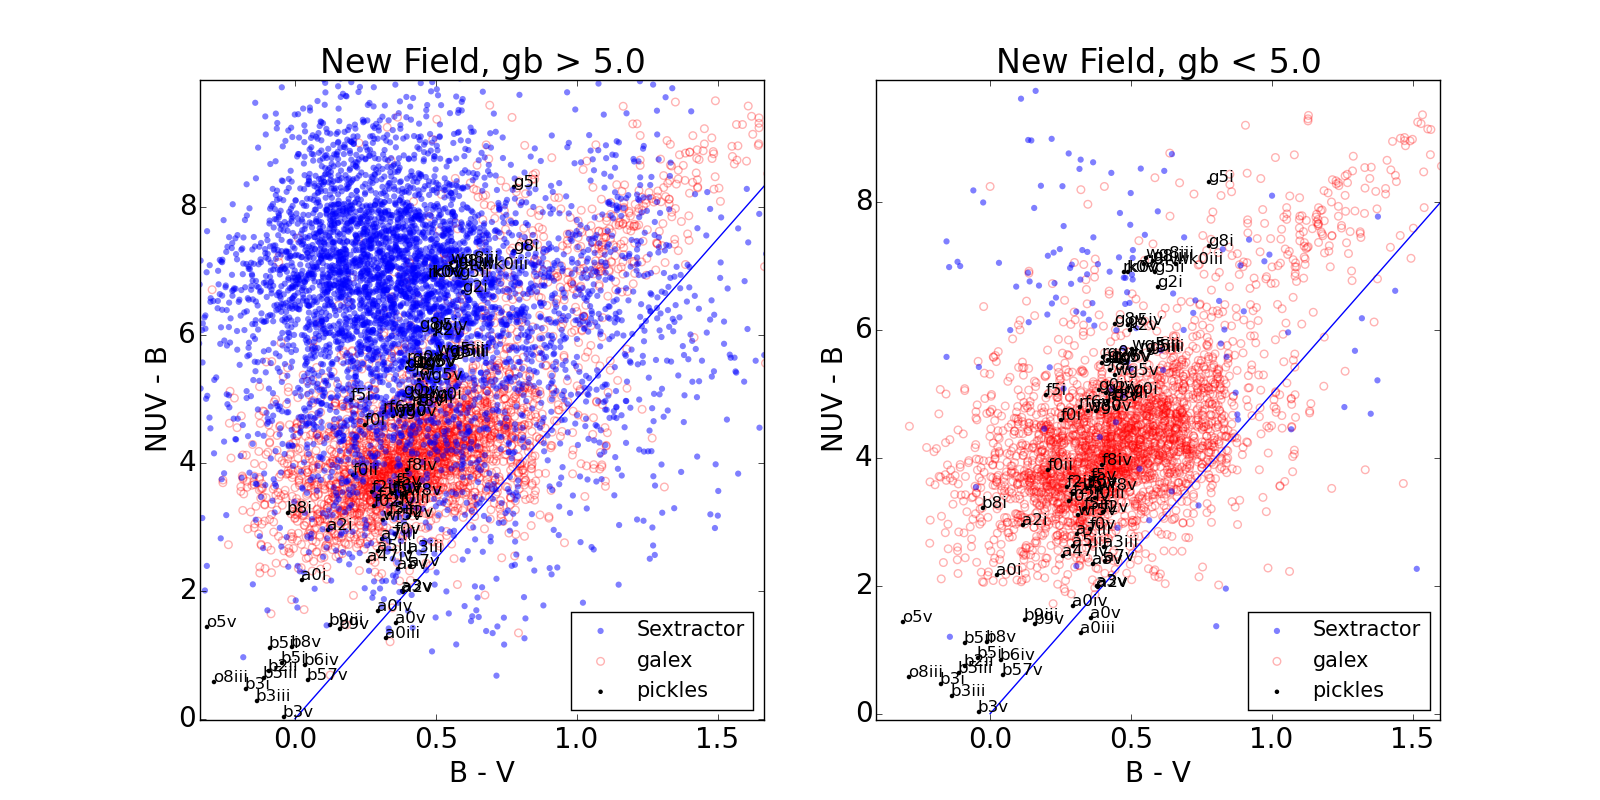
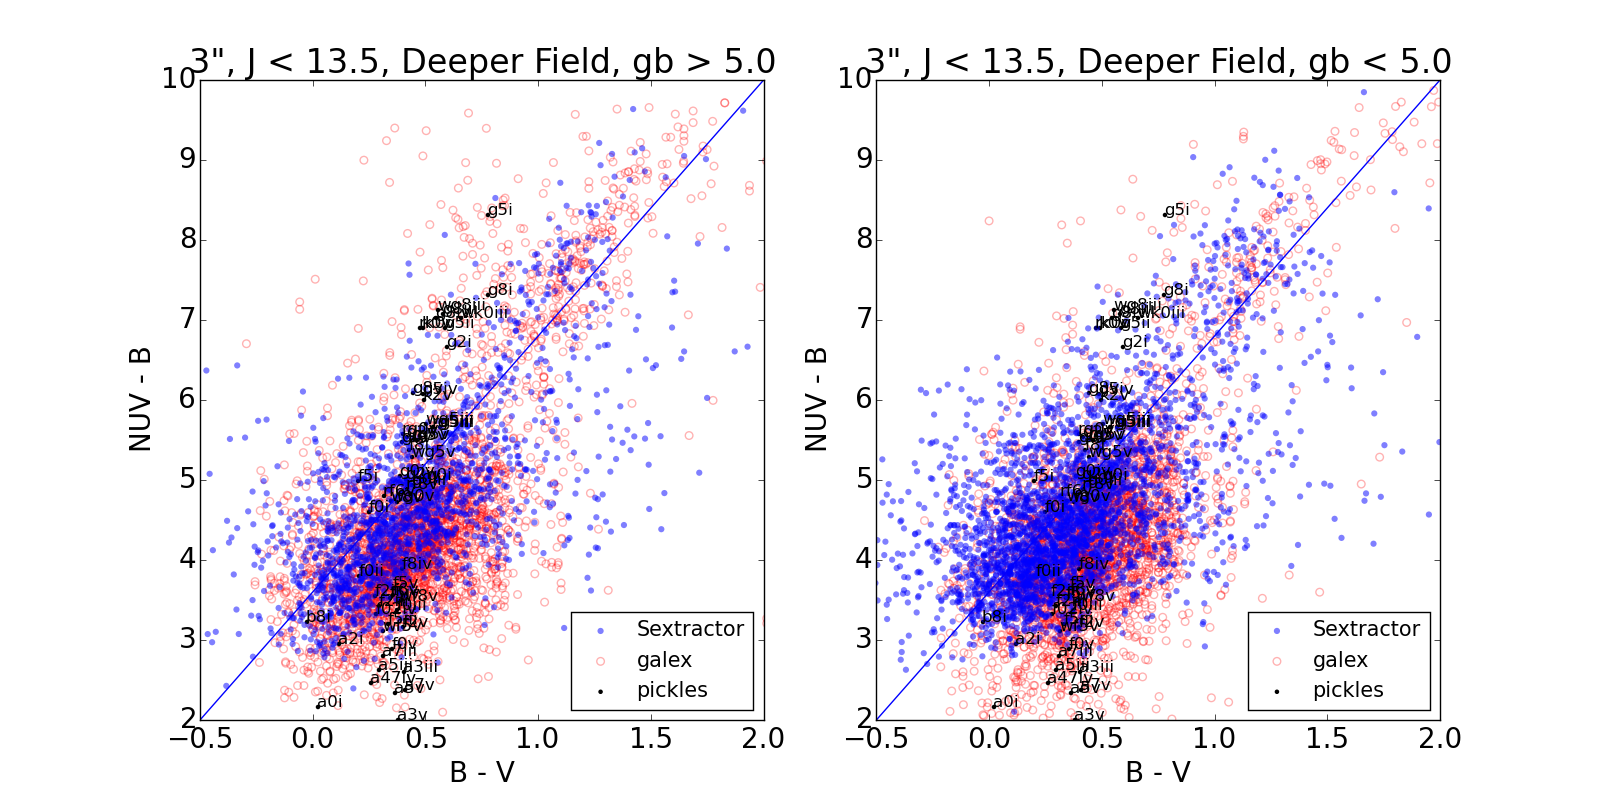
Added T2 Data to set

diff --git a/pipeline/misc.py b/pipeline/misc.py
@@ -29,33 +29,33 @@ ncut2 = np.where(np.abs(newt['gb']) < gbrange)
 f, (ax1, ax2) = plt.subplots(1, 2)
 plt.rc('legend',**{'fontsize':15})
 
-ax1.set_title('New Field, gb > '+str(gbrange))
-ax1.set_xlim((0,2))
-ax1.set_ylim((0,10))
+ax1.set_title('3", J < 13.5, Deeper Field, gb > '+str(gbrange))
+ax1.set_xlim((-0.5,2))
+ax1.set_ylim((2,10))
 ax1.set_xlabel('B - V')
 ax1.set_ylabel('NUV - B')
-ax1.plot([0,2],[0,10])
+ax1.plot([-0.5,2],[2,10])
 a2 = ax1.scatter(newt['BJmag'][ncut]-newt['VJmag'][ncut],newt['nuv_mag'][ncut]-newt['BJmag'][ncut],facecolor='none',edgecolor='red',s=30,alpha=0.3)
 a3 = ax1.scatter(pickles['b']-pickles['v'],pickles['nuv']-pickles['b'],c='black',s=5)
 for j in range(len(pickles)):
     ax1.annotate(pickles['name'][j][:-4],xy=(pickles['b'][j]-pickles['v'][j],pickles['nuv'][j]-pickles['b'][j]),size=12)
 
 a1 = ax1.scatter(star['BJmag'][scut]-star['VJmag'][scut],star['nuv'][scut]-star['BJmag'][scut],edgecolor='none',alpha=0.5)
-ax1.legend([a1,a2,a3],['Sextractor','galex','pickles'],scatterpoints=1,loc=2)
+ax1.legend([a1,a2,a3],['Sextractor','galex','pickles'],scatterpoints=1,loc=4)
 
-ax2.set_title('New Field, gb < '+str(gbrange))
-ax2.set_xlim((0,2))
-ax2.set_ylim((0,10))
+ax2.set_title('3", J < 13.5, Deeper Field, gb < '+str(gbrange))
+ax2.set_xlim((-0.5,2))
+ax2.set_ylim((2,10))
 ax2.set_xlabel('B - V')
 ax2.set_ylabel('NUV - B')
-ax2.plot([0,2],[0,10])
+ax2.plot([-0.5,2],[2,10])
 b2 = ax2.scatter(newt['BJmag'][ncut2]-newt['VJmag'][ncut2],newt['nuv_mag'][ncut2]-newt['BJmag'][ncut2],facecolor='none',edgecolor='red',s=30,alpha=0.3)
 b3 = ax2.scatter(pickles['b']-pickles['v'],pickles['nuv']-pickles['b'],c='black',s=5)
 for j in range(len(pickles)):
     ax2.annotate(pickles['name'][j][:-4],xy=(pickles['b'][j]-pickles['v'][j],pickles['nuv'][j]-pickles['b'][j]),size=12)
 
 b1 = ax2.scatter(star['BJmag'][scut2]-star['VJmag'][scut2],star['nuv'][scut2]-star['BJmag'][scut2],edgecolor='none',alpha=0.5)
-ax2.legend([b1,b2,b3],['Sextractor','galex','pickles'],scatterpoints=1,loc=2)
+ax2.legend([b1,b2,b3],['Sextractor','galex','pickles'],scatterpoints=1,loc=4)
 plt.show()
 
     
@@ -107,6 +107,57 @@ for j in range(len(pickles)):
 b1 = ax2.scatter(star['j'][scut2]-star['k'][scut2],star['nuv'][scut2]-star['j'][scut2],edgecolor='none',alpha=0.3)
 ax2.legend([b1,b2,b3],['Sextractor','Galex','pickles'],scatterpoints=1,loc=2)
 plt.show()
+
+####################################################################
+# J-H vs H-K
+####################################################################
+star = Table.read('starcatalog_05-68_2mass_t2.txt', format='ascii')
+
+newt = Table.read('galex120_2mass_t2.txt', format='ascii')
+pickles = Table.read('picklemags.txt', format='ascii')
+
+gbrange = 5.
+scut = np.where((np.abs(star['gb_sex']) > gbrange))
+scut2 = np.where((np.abs(star['gb_sex']) < gbrange))
+ncut = np.where(np.abs(newt['gb']) > gbrange)
+ncut2 = np.where(np.abs(newt['gb']) < gbrange)
+
+f, (ax1, ax2) = plt.subplots(1, 2)
+plt.rc('legend',**{'fontsize':15})
+
+ax1.set_title('3", J < 13.5, Deeper Field, gb > '+str(gbrange))
+ax1.set_xlim((-0.4,0.6))
+ax1.set_ylim((-0.3,1.0))
+ax1.set_xlabel('H - K')
+ax1.set_ylabel('J - H')
+ax1.plot([-0.4,0.6],[-0.3,1.0])
+a2 = ax1.scatter(newt['h'][ncut]-newt['k'][ncut],newt['j'][ncut]-newt['h'][ncut],facecolor='none',edgecolor='red',s=30,alpha=0.3)
+a3 = ax1.scatter(pickles['h']-pickles['k'],pickles['j']-pickles['h'],c='black',s=5)
+for j in range(len(pickles)):
+    ax1.annotate(pickles['name'][j][:-4],xy=(pickles['h'][j]-pickles['k'][j],pickles['j'][j]-pickles['h'][j]),size=12)
+
+a1 = ax1.scatter(star['h'][scut]-star['k'][scut],star['j'][scut]-star['h'][scut],edgecolor='none',alpha=0.1)
+
+
+ax1.legend([a1,a2,a3],['Sextractor','Galex','pickles'],scatterpoints=1,loc=2)
+
+
+ax2.set_title('3", J < 13.5, Deeper Field, gb < '+str(gbrange))
+ax2.set_xlim((-0.4,0.6))
+ax2.set_ylim((-0.3,1.0))
+ax2.set_xlabel('H - K')
+ax2.set_ylabel('J - H')
+ax2.plot([-0.4,0.6],[-0.3,1.0])
+b2 = ax2.scatter(newt['h'][ncut2]-newt['k'][ncut2],newt['j'][ncut2]-newt['h'][ncut2],facecolor='none',edgecolor='red',s=30,alpha=0.3)
+b3 = ax2.scatter(pickles['h']-pickles['k'],pickles['j']-pickles['h'],c='black',s=5)
+for j in range(len(pickles)):
+    ax2.annotate(pickles['name'][j][:-4],xy=(pickles['h'][j]-pickles['k'][j],pickles['j'][j]-pickles['h'][j]),size=12)
+
+b1 = ax2.scatter(star['h'][scut2]-star['k'][scut2],star['j'][scut2]-star['h'][scut2],edgecolor='none',alpha=0.1)
+ax2.legend([b1,b2,b3],['Sextractor','Galex','pickles'],scatterpoints=1,loc=2)
+plt.show()
+
+
 
 
 ####################################################################
@@ -204,17 +255,17 @@ b313 = Table.read('newfield_ipac_2mass_matches_3arcsec_J_lt13.txt',format='ascii
 b3135 = Table.read('newfield_ipac_2mass_matches_3arcsec_J_lt13.5.txt',format='ascii')
 b314 = Table.read('newfield_ipac_2mass_matches_3arcsec_J_lt14.txt',format='ascii')
 b3145 = Table.read('newfield_ipac_2mass_matches_3arcsec_J_lt14.5.txt',format='ascii')
-#c4125 = Table.read('newfield_ipac_2mass_matches_4arcsec_J_lt12.5.txt',format='ascii')
-#c413 = Table.read('newfield_ipac_2mass_matches_4arcsec_J_lt13.txt',format='ascii')
-#c4135 = Table.read('newfield_ipac_2mass_matches_4arcsec_J_lt13.5.txt',format='ascii')
-#c414 = Table.read('newfield_ipac_2mass_matches_4arcsec_J_lt14.txt',format='ascii')
-#c4145 = Table.read('newfield_ipac_2mass_matches_4arcsec_J_lt14.5.txt',format='ascii')
+c4125 = Table.read('newfield_ipac_2mass_matches_4arcsec_J_lt12.5.txt',format='ascii')
+c413 = Table.read('newfield_ipac_2mass_matches_4arcsec_J_lt13.txt',format='ascii')
+c4135 = Table.read('newfield_ipac_2mass_matches_4arcsec_J_lt13.5.txt',format='ascii')
+c414 = Table.read('newfield_ipac_2mass_matches_4arcsec_J_lt14.txt',format='ascii')
+c4145 = Table.read('newfield_ipac_2mass_matches_4arcsec_J_lt14.5.txt',format='ascii')
 
 
-# Plot radius search vs J mag search limits 
-files = [a2125,a213,a2135,a214,a2145,b3125,b313,b3135,b314,b3145]#,c4125,c413,c4135,c414,c4145]
-jlim = [12.5,13,13.5,14,14.5,12.5,13,13.5,14,14.5]#,12.5,13,13.5,14,14.5]
-arcsec = [2,2,2,2,2,3,3,3,3,3]#,4,4,4,4,4]
+#Plot radius search vs J mag search limits 
+files = [a2125,a213,a2135,a214,a2145,b3125,b313,b3135,b314,b3145,c4125,c413,c4135,c414,c4145]
+jlim = [12.5,13,13.5,14,14.5,12.5,13,13.5,14,14.5,12.5,13,13.5,14,14.5]
+arcsec = [2,2,2,2,2,3,3,3,3,3,4,4,4,4,4]
 dx = []
 for i in files:
     dx.append(np.median(i['dist_x']))
@@ -228,12 +279,13 @@ for i in range(len(files)):
     plt.annotate(str(len(files[i])),xy=(jlim[i]+0.05,dx[i]))
 plt.show()
 
+
 # Field density plot vs J mag search limits
 field = (6*5.5)*3*3600./2
 denlo,denhi = [],[]
 for i in files:
-    denlo.append(len(i[np.where(i['gb_sex'] < 5.)])/field)
-    denhi.append(len(i[np.where(i['gb_sex'] > 5.)])/field)
+    denlo.append(len(i[np.where(np.abs(i['gb_sex']) < 5.)])/field)
+    denhi.append(len(i[np.where(np.abs(i['gb_sex']) > 5.)])/field)
 
 plt.scatter(jlim,denlo,c=arcsec,edgecolor='none',s=80,marker='s',label='b < 5')
 plt.scatter(jlim,denhi,c=arcsec,edgecolor='none',s=80,marker='o',label='b > 5')
@@ -242,15 +294,9 @@ plt.ylabel('Counts/area [#/arcsec$^2$]')
 cm = plt.colorbar()
 cm.set_label('Limiting radius [arcsec]')
 for i in range(len(files)):
-    plt.annotate(str(len(files[i][np.where(files[i]['gb_sex'] < 5.)])),xy=(jlim[i]+0.05,denlo[i]))
-for i in range(0,5,1):
-    plt.annotate(str(len(files[i][np.where(files[i]['gb_sex'] > 5.)])),xy=(jlim[i]+0.05,denhi[i]-0.01))
+    plt.annotate(str(len(files[i][np.where(np.abs(files[i]['gb_sex']) < 5.)])),xy=(jlim[i]+0.05,denlo[i]))
+    plt.annotate(str(len(files[i][np.where(np.abs(files[i]['gb_sex']) > 5.)])),xy=(jlim[i]+0.05,denhi[i]))
 
-for i in range(5,10,1):
-    plt.annotate(str(len(files[i][np.where(files[i]['gb_sex'] > 5.)])),xy=(jlim[i]+0.05,denhi[i]))
-
-for i in range(10,15,1):
-    plt.annotate(str(len(files[i][np.where(files[i]['gb_sex'] > 5.)])),xy=(jlim[i]+0.05,denhi[i]+0.01))
 plt.title('2MASS match counts by J_lim and radius search')
 plt.legend(scatterpoints=1,loc=2)
 plt.show()

diff --git a/pipeline/galexdatapull.py b/pipeline/galexdatapull.py
@@ -4,7 +4,7 @@ from astropy.table import Table, hstack, vstack
 from astropy import units as u
 from astropy.coordinates import SkyCoord, search_around_sky
 
-galexlist = np.loadtxt('../filelists/galexfilelist.txt', dtype='string')
+galexlist = np.loadtxt('../filelists/galex0filelist.txt', dtype='string')
 path = '/home/cal/smohammed/Downloads/'
 data = Table.read(path+galexlist[0], format='fits')
 
@@ -39,7 +39,7 @@ for i in range(1, len(galexlist), 1):
 
 finaltable = hstack([ggoid_dec, alpha_j2000, delta_j2000, E_bv, glon, glat, nuv, fuv, NUV_FLUX_AUTO, NUV_FLUXERR_AUTO, FUV_FLUX_AUTO, FUV_FLUXERR_AUTO])
 
-ascii.write(finaltable, '../galex120data.txt')
+ascii.write(finaltable, '../galex0data.txt')
 
 t2 = Table.read('../tycho2_2mass_matches.txt', format='ascii')
 galexgal = SkyCoord(finaltable['alpha_j2000']*u.deg, finaltable['delta_j2000']*u.deg, frame='icrs')
@@ -55,4 +55,4 @@ alldata = hstack([galex2, t3])
 alldata.rename_column('glon', 'gl')
 alldata.rename_column('glat', 'gb')
 
-ascii.write(alldata, '../galex120_2mass_t2.txt')
+ascii.write(alldata, '../galex0_2mass_t2.txt')
